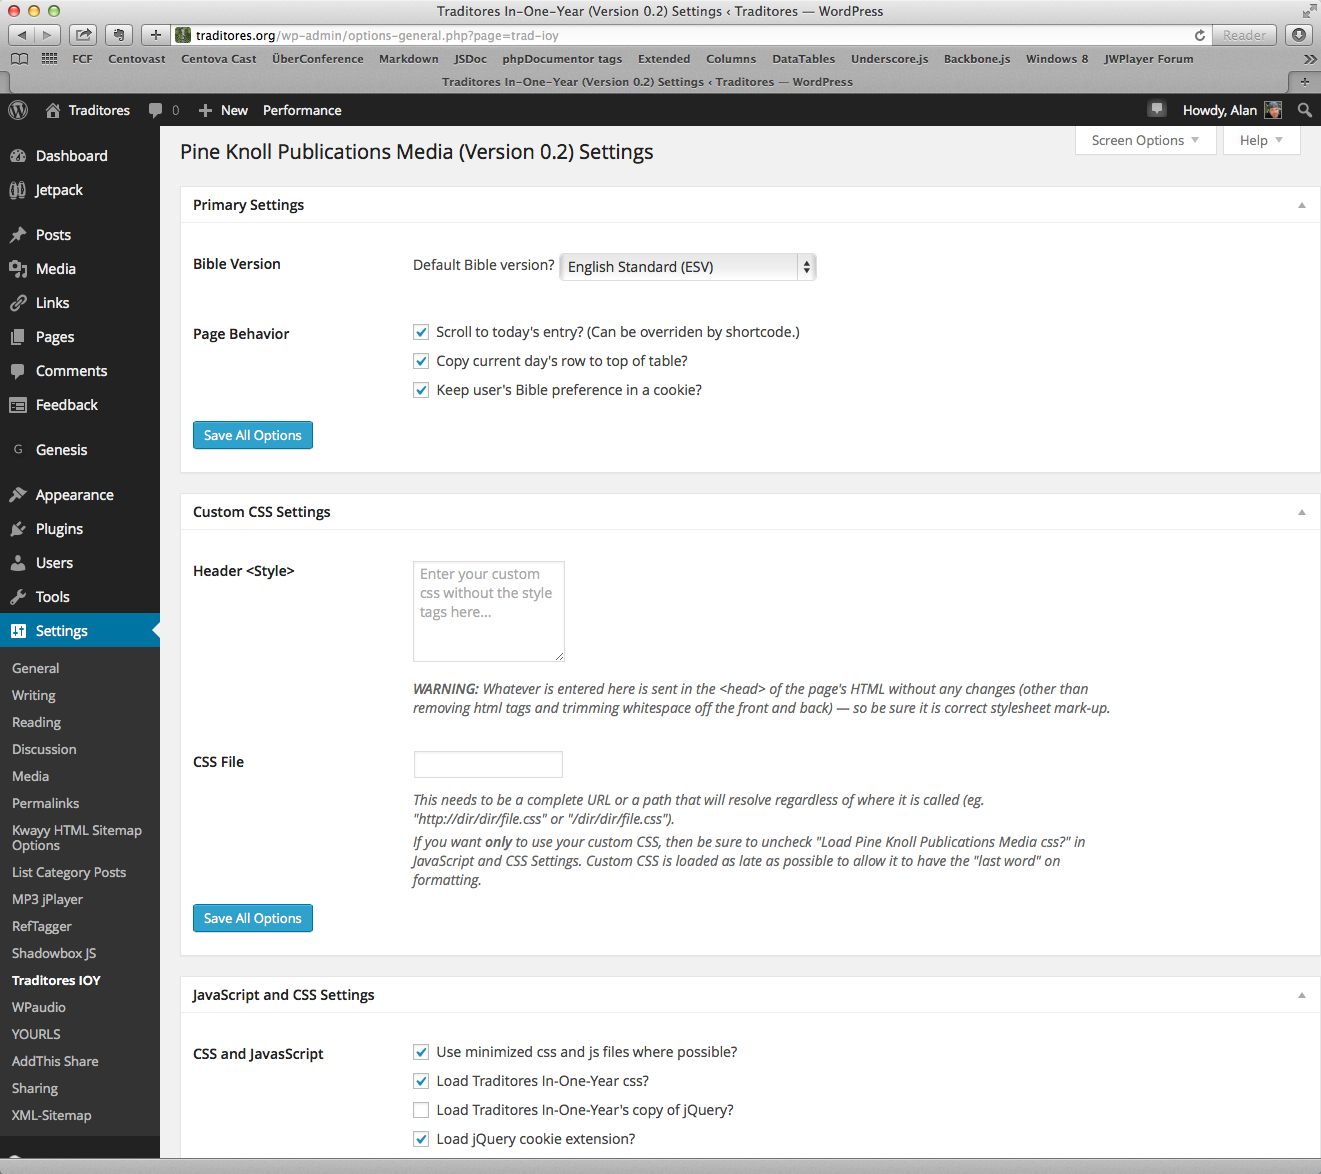
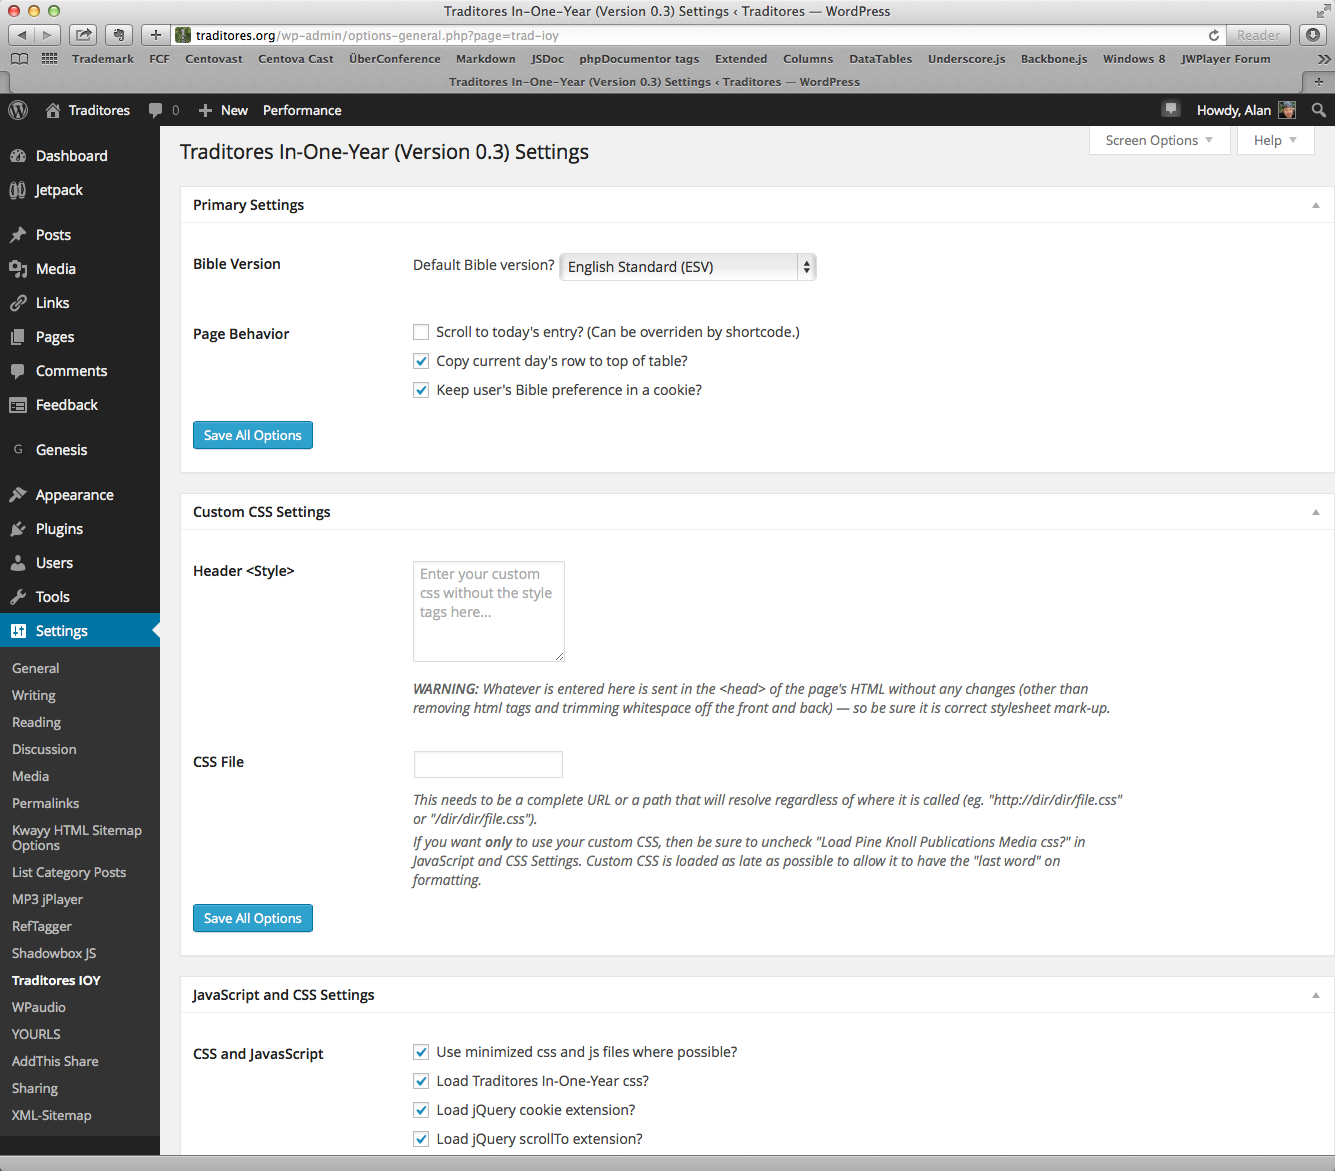
Code clean-up, new admin screenshot, and a bug fix in uninstall.php.

diff --git a/inc/trad_ioy_admin.class.php b/inc/trad_ioy_admin.class.php
@@ -11,7 +11,7 @@
 class trad_ioy_admin extends trad_ioy {
 	function __construct( $def_settings ) {
 		parent::__construct( $def_settings );
-		add_action( 'admin_menu', array( $this, 'tradmedia_admin_settings_menu' ) );
+		add_action( 'admin_menu', array( $this, 'trad_ioy_admin_settings_menu' ) );
 		add_action( 'admin_init', array( $this, 'trad_ioy_admin_init' ) );
 		add_action( 'admin_enqueue_scripts', array( $this, 'trad_ioy_load_admin_scripts' ) );
 		add_action( 'add_meta_boxes', array( $this, 'trad_ioy_register_meta_boxes' ) );
@@ -20,10 +20,17 @@ class trad_ioy_admin extends trad_ioy {
 
 	protected $options_page = false;
 
-	public function tradmedia_admin_settings_menu() {
+	public function trad_ioy_admin_settings_menu() {
+		// this first part makes sure we show the right version...
+		global $trad_ioy_def_settings;
+		if ( ( $option = get_option( 'trad_ioy_version' ) ) === false ) {
+			add_option( 'trad_ioy_version', $trad_ioy_def_settings['trad_ioy_version'], '', false );
+		} else {
+			update_option( 'trad_ioy_version', $trad_ioy_def_settings['trad_ioy_version'] );
+		}
 		$this->options_page = add_options_page( 'Traditores In-One-Year (Version ' . get_option( 'trad_ioy_version' ) . ') Settings',
 			'Traditores IOY', 'manage_options', 'trad-ioy',
-			array( $this, 'tradmedia_admin_settings_menu_body' ) );
+			array( $this, 'trad_ioy_admin_settings_menu_body' ) );
 
 		if ( $this->options_page ) {
 			add_action( 'load-' . $this->options_page, array( $this, 'trad_ioy_help_tabs' ) );
@@ -199,10 +206,10 @@ class trad_ioy_admin extends trad_ioy {
 	<?php
 	}
 
-	public function tradmedia_admin_settings_menu_body() {
+	public function trad_ioy_admin_settings_menu_body() {
 		?>
 		<div id="icon-options-general" class="icon32"><br /></div>
-		<h2>Pine Knoll Publications Media (Version <?php echo $this->get_setting( 'trad_ioy_version' ) ?>) Settings</h2>
+		<h2>Traditores In-One-Year (Version <?php echo $this->get_setting( 'trad_ioy_version' ) ?>) Settings</h2>
 		<?php if ( isset( $_GET['trad-ioy-message'] ) && '1' == $_GET['trad-ioy-message'] ) { ?>
 			<div id='trad-ioy-message' class='updated fade'><p><strong>Settings Saved</strong></p></div>
 		<?php } ?>
@@ -239,17 +246,12 @@ class trad_ioy_admin extends trad_ioy {
 
 
 	public function trad_ioy_admin_init() {
-		global $trad_ioy_def_settings;
-		if ( ( $option = get_option( 'trad_ioy_version' ) ) === false ) {
-			add_option( 'trad_ioy_version', $trad_ioy_def_settings['trad_ioy_version'], '', false );
-		} else {
-			update_option( 'trad_ioy_version', $trad_ioy_def_settings['trad_ioy_version'] );
-		}
 		add_action( 'admin_post_trad_save_settings', array( $this, 'admin_post_save_options' ) );
 		wp_enqueue_style( 'trad-ioy-admin', plugins_url( 'css/wp-admin.css', dirname( __FILE__ ) ) );
 	}
 
 	public function admin_post_save_options() {
+
 		if ( ! current_user_can( 'manage_options' ) ) {
 			wp_die( 'Not allowed!' );
 		}
@@ -297,8 +299,6 @@ class trad_ioy_admin extends trad_ioy {
 			} else {
 				// This protects us from mistakenly deleting a setting because of a bad post...
 				$opt_value = $this->get_setting( $key );
-				// nothin' to see here, move along...
-				continue; // foreach $this->setting_loc
 			}
 
 			if ( false === $sec ) {

diff --git a/inc/defaults.php b/inc/defaults.php
@@ -21,7 +21,7 @@ $trad_ioy_def_settings = array(
 		'cookie'            => true
 	),
 	'trad_ioy_local_css'            => '',
-	'trad_ioy_version'              => '0.2',
+	'trad_ioy_version'              => '0.3',
 	'trad_ioy_avail_bible_versions' => array( 'esv'     => 'English Standard (ESV)',
 																						'niv'     => 'New International (NIV)', 'kjv' => 'King James (KJV)',
 																						'nasb95'  => 'New American Standard (NASB)', 'lbla95' => 'La Biblia de las Americas',

diff --git a/inc/trad_ioy.class.php b/inc/trad_ioy.class.php
@@ -110,8 +110,8 @@ class trad_ioy {
 		if ( $this->get_setting( 'trad_ioy_local_css' ) ) {
 			add_action( 'wp_head', array( $this, 'trad_ioy_add_custom_css' ) );
 		}
-      // we definitely need jQuery
-			wp_enqueue_script( 'jquery' );
+		// we definitely need jQuery
+		wp_enqueue_script( 'jquery' );
 
 		if ( $this->get_setting( 'trad_load_cookie_js' ) ) {
 			wp_enqueue_script( 'trad-cookie-js', plugins_url(

diff --git a/uninstall.php b/uninstall.php
@@ -23,10 +23,9 @@ function trad_ioy_delete_options ($trad_ioy_def_settings,$trad_ioy_post_def_sett
 			if (get_option($key) !== false) {
 				delete_option($key);
 			}
-			foreach (array_keys($trad_ioy_post_def_settings) as $key) {
-				delete_post_meta_by_key($key);
-			}
+		}
+		foreach (array_keys($trad_ioy_post_def_settings) as $key) {
+			delete_post_meta_by_key($key);
 		}
 	}
 }
-?>

diff --git a/trad-ioy.php b/trad-ioy.php
@@ -31,5 +31,3 @@ if ( is_admin() ) {
 
 // Wordpress discussions say this register_activation_hook must occur in the main plugin file...
 register_activation_hook( __FILE__, array( $trad_ioy, 'save_default_options' ) );
-
-?>
